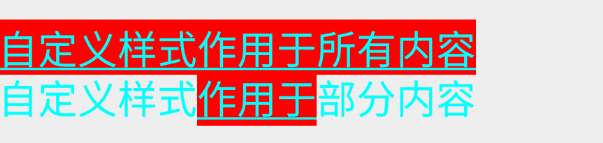
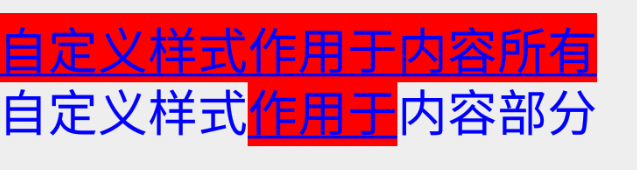
Spans增加Builder

diff --git a/app/src/main/java/com/zrq/spanbuilderdemo/MainActivity.java b/app/src/main/java/com/zrq/spanbuilderdemo/MainActivity.java
@@ -1,14 +1,12 @@
 package com.zrq.spanbuilderdemo;
 
 import android.graphics.Color;
-import android.graphics.Typeface;
 import android.os.Bundle;
 import android.support.v7.app.AppCompatActivity;
 import android.text.style.BackgroundColorSpan;
 import android.text.style.UnderlineSpan;
 import android.widget.TextView;
 
-import com.zrq.spanbuilder.SpanBuilder;
 import com.zrq.spanbuilder.Spans;
 import com.zrq.spanbuilder.TextStyle;
 
@@ -30,86 +28,86 @@ public class MainActivity extends AppCompatActivity {
         // 3.Color.RED;
 
 
-        //简单样式: 统一风格
-        Spans.builder().text("8").size(28).color(Color.RED).build();
-
-
-        // 简单样式：只改变字体大小、颜色；
-        textView1.setText(new Spans.Builder()
+        // Spans的Builder模式：原始写法
+        textView1.setText(Spans.builder()
                 .text("8")
                 .text(".88").size(28).color(Color.RED)
                 .text("%").size(16).color(Color.BLACK)
-                .build()
-        );
+                .build());
 
-        // 复杂样式：用SpanBuilder生成
-        textView2.setText(new Spans.Builder()
-                .text("10").size(50).color(Color.RED).style(TextStyle.BOLD)
+        // Spans的Builder模式：简单写法：只简单了字体大小、颜色；
+        textView2.setText(Spans.builder()
+                .text("10", 50, Color.RED).style(TextStyle.BOLD)
                 .text("元")
-                .build()
-        );
+                .build());
 
-        textView3.setText(new Spans.Builder()
-                .text("￥149").size(24).color(Color.RED)
-                .text(".9  ").size(16).color(Color.RED)
-                .text("￥259.00").size(20).color(Color.BLACK).deleteLine()
-                .text("   4738").size(20).color(Color.RED).style(TextStyle.BOLD_ITALIC)
-                .text("件已售").size(20).color(Color.BLACK)
-                .build()
-        );
-//  SpanBuilder说明
-//  1.方法介绍：
+        // Spans的Builder模式,可在text方法后面随意拼接
+        textView3.setText(Spans.builder()
+                .text("￥149", 24, Color.RED)
+                .text(".9  ", 16, Color.RED)
+                .text("￥259.00", 20, Color.BLACK).deleteLine()
+                .text("   4738", 20, Color.RED).style(TextStyle.BOLD_ITALIC)
+                .text("件已售", 20, Color.BLACK)
+                .build());
+
+        // Spans的append模式
+//        textView3.setText(new Spans()
+//                .append("￥149", 24, Color.RED)  // ←简单样式
+//                .append(".9  ", 16, Color.RED)  // ←简单样式
+//                .append(new SpanBuilder("￥259.00", 20, Color.BLACK).setDeleteLine())//←复杂样式：用SpanBuilder生成
+//                .append(new SpanBuilder("   4738", 20, Color.RED).setTextStyle(TextStyle.BOLD_ITALIC))//←复杂样式：用SpanBuilder生成
+//                .append("件已售", 20, Color.BLACK));// ←简单样式
+
+//  -------------------方法介绍：----------------------
+//  Spans.Builder说明     //  SpanBuilder说明
+
 //  1.内置的效果方法：
-//  .setTextSize(30)                    // 设置字体30Sp
-//  .setTextColor(Color.RED)            // 设置字体红色
-//  .setBackgroundColor(Color.GREEN)    // 设置字体背景绿色
-//  .setTypeface(Typeface.BOLD_ITALIC)  // 设置粗斜体 （粗斜体：BOLD_ITALIC，粗体：BOLD，斜体：ITALIC，正常：NORMAL）
-//  .setTypeface(Typeface.createFromAsset(getAssets(), "fonts/Aileron-Light.otf"))//  设置自定义的ttf、otf字体
-//  .setTextAppearance(this, android.R.style.TextAppearance_Small)//  设置自定义Style样式
-//  .setClick(textView, clickableSpan)  // 设置可点击
-//  .setDeleteLine()                    // 设置删除线
-//  .setUnderLine()                     // 设置下划线
-//  .setImage(drawable)                 // 设置图片，（此内容无效，会被图片给替换,drawable必须设置setBounds）
-//  .setFontFamily("monospace")         // 设置字体类型为monospace (可设置"monospace", "serif", and "sans-serif"等)
-//  .setQuote(Color.BLUE)               // 设置蓝色的引用线
-//  .setAlignment(Layout.Alignment.ALIGN_CENTER)//设置对齐方式为居中(ALIGN_NORMAL、ALIGN_OPPOSITE、ALIGN_CENTER）
-//  .setRelativeSize(2.0f)              // 设置2倍字体
-//  .setUpLabel()                       // 设置为上标
-//  .setScaleX(3f)                      // 设置X轴缩放3倍
-//  .setUnderLabel()                    // 设置为下标
+//  .size()              //  .setTextSize(30)                    // 设置字体30Sp
+//  .color()             //  .setTextColor(Color.RED)            // 设置字体红色
+//  .backgroundColor()   //  .setBackgroundColor(Color.GREEN)    // 设置字体背景绿色
+//  .style()             //  .setTextStyle(TextStyle.BOLD_ITALIC)// 设置粗斜体 （粗斜体：BOLD_ITALIC，粗体：BOLD，斜体：ITALIC，正常：NORMAL）
+//  .typeface()          //  .setTypeface(Typeface.createFromAsset(getAssets(), "fonts/Aileron-Light.otf"))//  设置自定义的ttf、otf字体
+//  .appearance()        //  .setTextAppearance(this, android.R.style.TextAppearance_Small)//  设置自定义Style样式
+//  .click()             //  .setClick(textView, clickableSpan)  // 设置可点击
+//  .deleteLine()        //  .setDeleteLine()                    // 设置删除线
+//  .underLine()         //  .setUnderLine()                     // 设置下划线
+//  .image()             //  .setImage(drawable)                 // 设置图片，（此内容无效，会被图片给替换,drawable必须设置setBounds）
+//  .fontFamily()        //  .setFontFamily("monospace")         // 设置字体类型为monospace (可设置"monospace", "serif", and "sans-serif"等)
+//  .quote()             //  .setQuote(Color.BLUE)               // 设置蓝色的引用线
+//  .alignment()         //  .setAlignment(Layout.Alignment.ALIGN_CENTER)//设置对齐方式为居中(ALIGN_NORMAL、ALIGN_OPPOSITE、ALIGN_CENTER）
+//  .relativeSize()      //  .setRelativeSize(2.0f)              // 设置2倍字体
+//  .upLabel()           //  .setUpLabel()                       // 设置为上标
+//  .scaleX()            //  .setScaleX(3f)                      // 设置X轴缩放3倍
+//  .underLabel()        //  .setUnderLabel()                    // 设置为下标
 
 //  2.内置的功能方法：（方法注释已详细说明）
-//  .setSpanAll()                       // 设置样式-作用于text全部
-//  .setSpanPart()                      // 设置样式-作用于text文本start到end的位置
+//  .newSpanAll()        //  .setSpanAll()
+//  .newSpanPart()       //  .setSpanPart()
+//  .text()
+//  .build()
 
 //  2.使用介绍：
 //  2.1内置效果方法使用：
-        //  此为混合样式应用于此SpanBuilder的所有内容,设置字体12sp、红色、背景绿色、粗斜体
-        SpanBuilder spanBuilder = new SpanBuilder("字体12sp、红色、背景绿色、粗斜体")
-                .setTextSize(12)
-                .setTextColor(Color.RED)
-                .setBackgroundColor(Color.GREEN)
-                .setTypeface(Typeface.BOLD_ITALIC);
-
-        textView4.setText(new Spans()
-                .append("控件样式")     // ←样式依赖于控件
-                .append(spanBuilder)    //←复杂样式：用SpanBuilder生成
-                .append("控件样式"));   // ←样式依赖于控件
+        textView4.setText(Spans.builder()
+                .text("控件样式")     // ←样式依赖于控件
+                .text("字体12sp、红色、背景绿色、粗斜体", 12, Color.RED).backgroundColor(Color.GREEN).style(TextStyle.BOLD_ITALIC)
+                .text("控件样式").build());   // ←样式依赖于控件
 
 
-//  2.2内置功能方法使用（可用于自定义样式，详细说明请看setSpanPart方法注释）：
-
+//  2.2扩展效果方法使用（可用于自定义样式，详细说明请看setSpanPart方法注释）：
         // 1 样式作用于内容所有
-        SpanBuilder customSpan1 = new SpanBuilder("自定义样式作用于内容所有\n")
-                .setTextSize(20)
-                .setSpanAll(new BackgroundColorSpan(Color.RED), new UnderlineSpan())        // ←自定义样式
-                .setTextColor(Color.CYAN);
+        Spans spans1 = Spans.builder()
+                .text("自定义样式作用于内容所有\n")
+                .size(20)
+                .newSpanAll(new BackgroundColorSpan(Color.RED), new UnderlineSpan())        // ←自定义样式
+                .color(Color.BLUE).build();
         // 2 样式作用于内容部分，即作用于5-8之间的内容
-        SpanBuilder customSpan2 = new SpanBuilder("自定义样式作用于内容部分")
-                .setTextSize(20)
-                .setSpanPart(5, 8, new BackgroundColorSpan(Color.RED), new UnderlineSpan()) // ←自定义样式
-                .setTextColor(Color.CYAN);
+        Spans spans2 = Spans.builder(spans1)
+                .text("自定义样式作用于内容部分")
+                .size(20)
+                .newSpanPart(5, 8, new BackgroundColorSpan(Color.RED), new UnderlineSpan()) // ←自定义样式
+                .color(Color.BLUE).build();
 
-        textView5.setText(new Spans().append(customSpan1).append(customSpan2));
+        textView5.setText(spans2);
     }
 }

diff --git a/spanbuilder/src/main/java/com/zrq/spanbuilder/Spans.java b/spanbuilder/src/main/java/com/zrq/spanbuilder/Spans.java
@@ -68,11 +68,18 @@ public class Spans extends SpannableStringBuilder {
     }
 
     /**
+     * 在原来spans的基础上拼接
+     */
+    public static Builder builder(Spans spans) {
+        return new Builder(spans);
+    }
+
+    /**
      * 构建者模式拼接Spans
      */
     public static class Builder {
 
-        private SpanBuilder spanBuilder=new SpanBuilder();
+        private SpanBuilder spanBuilder = new SpanBuilder();
         private Spans spans = new Spans();
 
         public Builder() {
@@ -81,6 +88,11 @@ public class Spans extends SpannableStringBuilder {
         public Builder(SpanBuilder spanBuilder) {
             this.spanBuilder = spanBuilder;
         }
+
+        public Builder(Spans spans) {
+            this.spans = spans;
+        }
+
         /**
          * 设置需要改变样式的内容
          *
@@ -89,6 +101,18 @@ public class Spans extends SpannableStringBuilder {
         public Builder text(CharSequence text) {
             appendOld();// 拼接上一个
             this.spanBuilder = new SpanBuilder(text);
+            return this;
+        }
+
+        /**
+         * @param text      设置的内容，作用于所有
+         * @param textSize  设置字体大小，单位sp
+         * @param textColor 设置字体颜色
+         */
+        public Builder text(CharSequence text, int textSize, int textColor) {
+            text(text);
+            size(textSize);
+            color(textColor);
             return this;
         }
 
@@ -109,6 +133,7 @@ public class Spans extends SpannableStringBuilder {
                 this.spans.append(this.spanBuilder);
             }
         }
+
         /**
          * 设置字体大小
          *
@@ -274,6 +299,26 @@ public class Spans extends SpannableStringBuilder {
          */
         public Builder scaleX(float proportion) {
             this.spanBuilder.setScaleX(proportion);
+            return this;
+        }
+
+        /**
+         * 创建新样式-作用于text全部
+         *
+         * @see SpanBuilder#setSpanAll(java.lang.Object...)
+         */
+        public Builder newSpanAll(Object... spans) {
+            this.spanBuilder.setSpanAll(spans);
+            return this;
+        }
+
+        /**
+         * 创建新样式-作用于text文本start到end的位置
+         *
+         * @see SpanBuilder#setSpanPart(int, int, java.lang.Object...)
+         */
+        public Builder newSpanPart(int start, int end, Object... spans) {
+            this.spanBuilder.setSpanPart(start, end, spans);
             return this;
         }
     }

diff --git a/spanbuilder/src/main/java/com/zrq/spanbuilder/SpanBuilder.java b/spanbuilder/src/main/java/com/zrq/spanbuilder/SpanBuilder.java
@@ -92,6 +92,7 @@ public class SpanBuilder extends SpannableString {
 
     /**
      * 已过时
+     *
      * @see SpanBuilder#setTextStyle(int)
      */
     @Deprecated
@@ -104,9 +105,17 @@ public class SpanBuilder extends SpannableString {
      *
      * @param style 设置字体类型    粗斜体：BOLD_ITALIC，粗体：BOLD，斜体：ITALIC，正常：NORMAL
      */
+    @Deprecated
     public SpanBuilder setTextStyle(int style) {
         setSpanAll(new StyleSpan(style));
         return this;
+    }
+
+    /**
+     * @see SpanBuilder#setTextStyle(int)
+     */
+    public SpanBuilder setTextStyle(TextStyle style) {
+        return setTextStyle(style.ordinal());
     }
 
     /**
@@ -242,7 +251,9 @@ public class SpanBuilder extends SpannableString {
 
 
     /**
-     * 设置样式-作用于text全部 详情看setSpanPart方法
+     * 设置样式-作用于text全部
+     *
+     * @see SpanBuilder#setSpanPart(int, int, java.lang.Object...)
      */
     public SpanBuilder setSpanAll(Object... spans) {
         return setSpanPart(0, length(), spans);

diff --git a/spanbuilder/src/main/java/com/zrq/spanbuilder/TextStyle.java b/spanbuilder/src/main/java/com/zrq/spanbuilder/TextStyle.java
@@ -5,20 +5,12 @@ package com.zrq.spanbuilder;
  */
 
 public enum TextStyle {
-    /**
-     * 正常
-     */
+    /** 正常 */
     NORMAL,
-    /**
-     * 粗体
-     */
+    /** 粗体 */
     BOLD,
-    /**
-     * 斜体
-     */
+    /** 斜体 */
     ITALIC,
-    /**
-     * 粗斜体
-     */
+    /** 粗斜体 */
     BOLD_ITALIC
 }
